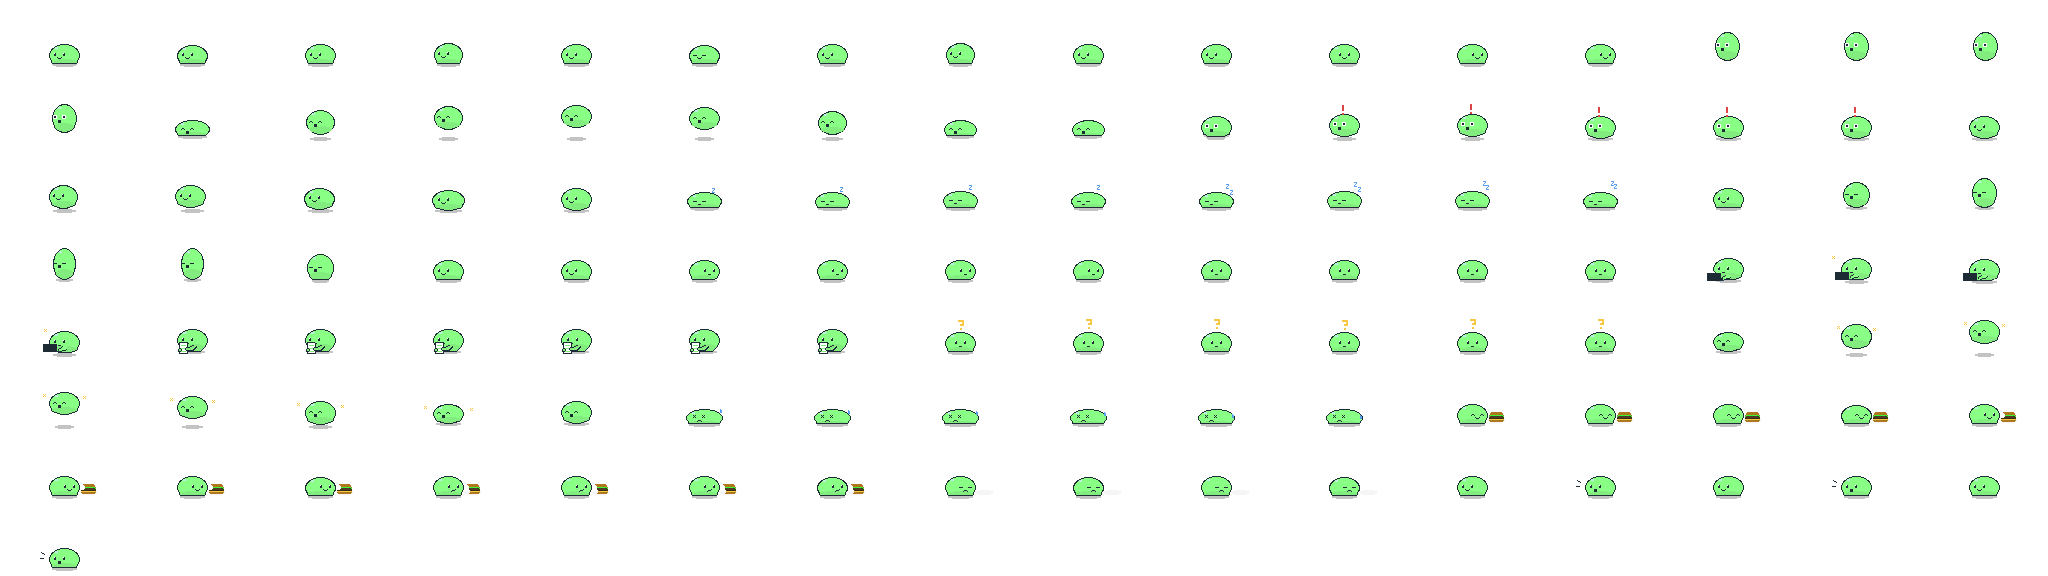
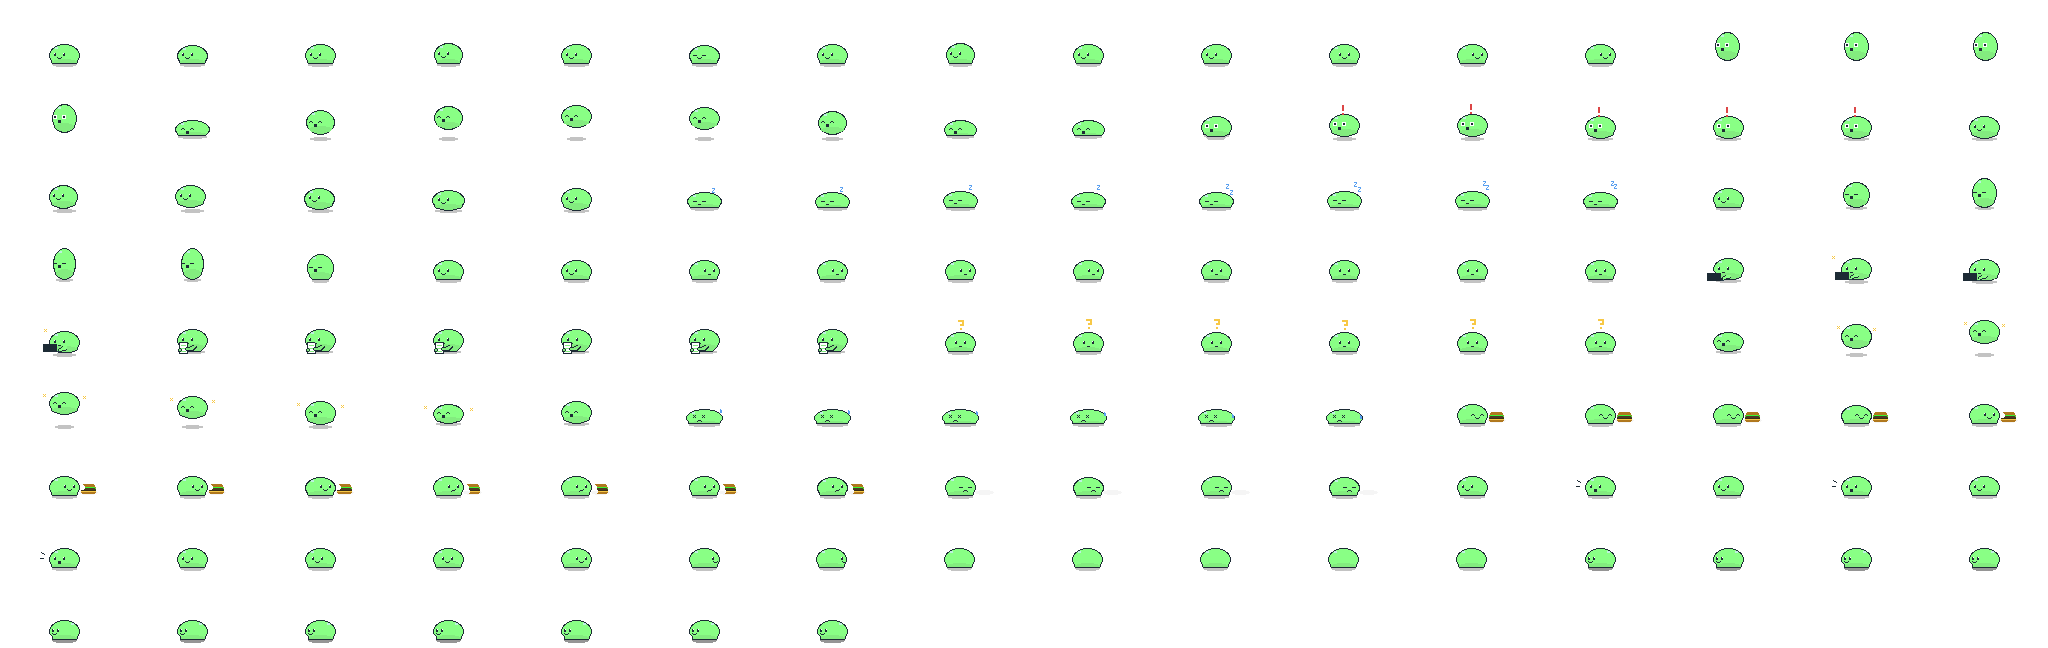
Add look-at-wallpaper to Goop and update its thinking frames
Goop, the default pack, gets a new random action, look-at-wallpaper
(2% chance, plays once, with its own bubble line), and four redrawn
work-thinking frames. templates/buddy.png and the README GIFs that show
thinking are regenerated, and the README's role table lists the new
action.

diff --git a/README.md b/README.md
@@ -242,7 +242,7 @@ Each buddy's pack choice is stored in `~/.config/pixel-buddy/ui.json`. A buddy c
 | Held by the mouse | `drag` |
 | Left-click reactions, picked at random | `click-hop`, `click-surprised` |
 | Walking: a walk cycle that loops while the plugin slides the buddy at `speed` | `walk` |
-| Random actions | `sleep`, `stretch` |
+| Random actions | `sleep`, `stretch`, `look-at-wallpaper` (plays once) |
 | Work status, in this order: thinking, working, reviewing, waiting for you, success, error | `work-thinking`, `work-working`, `work-reviewing`, `work-waiting`, `work-success`, `work-error` |
 | Usage level, 6 tiers from 0% to 100% used | `usage-plenty` ×2, `usage-ok` ×2, `usage-low`, `usage-empty` |
 | Murmur bubble | `whisper` |
